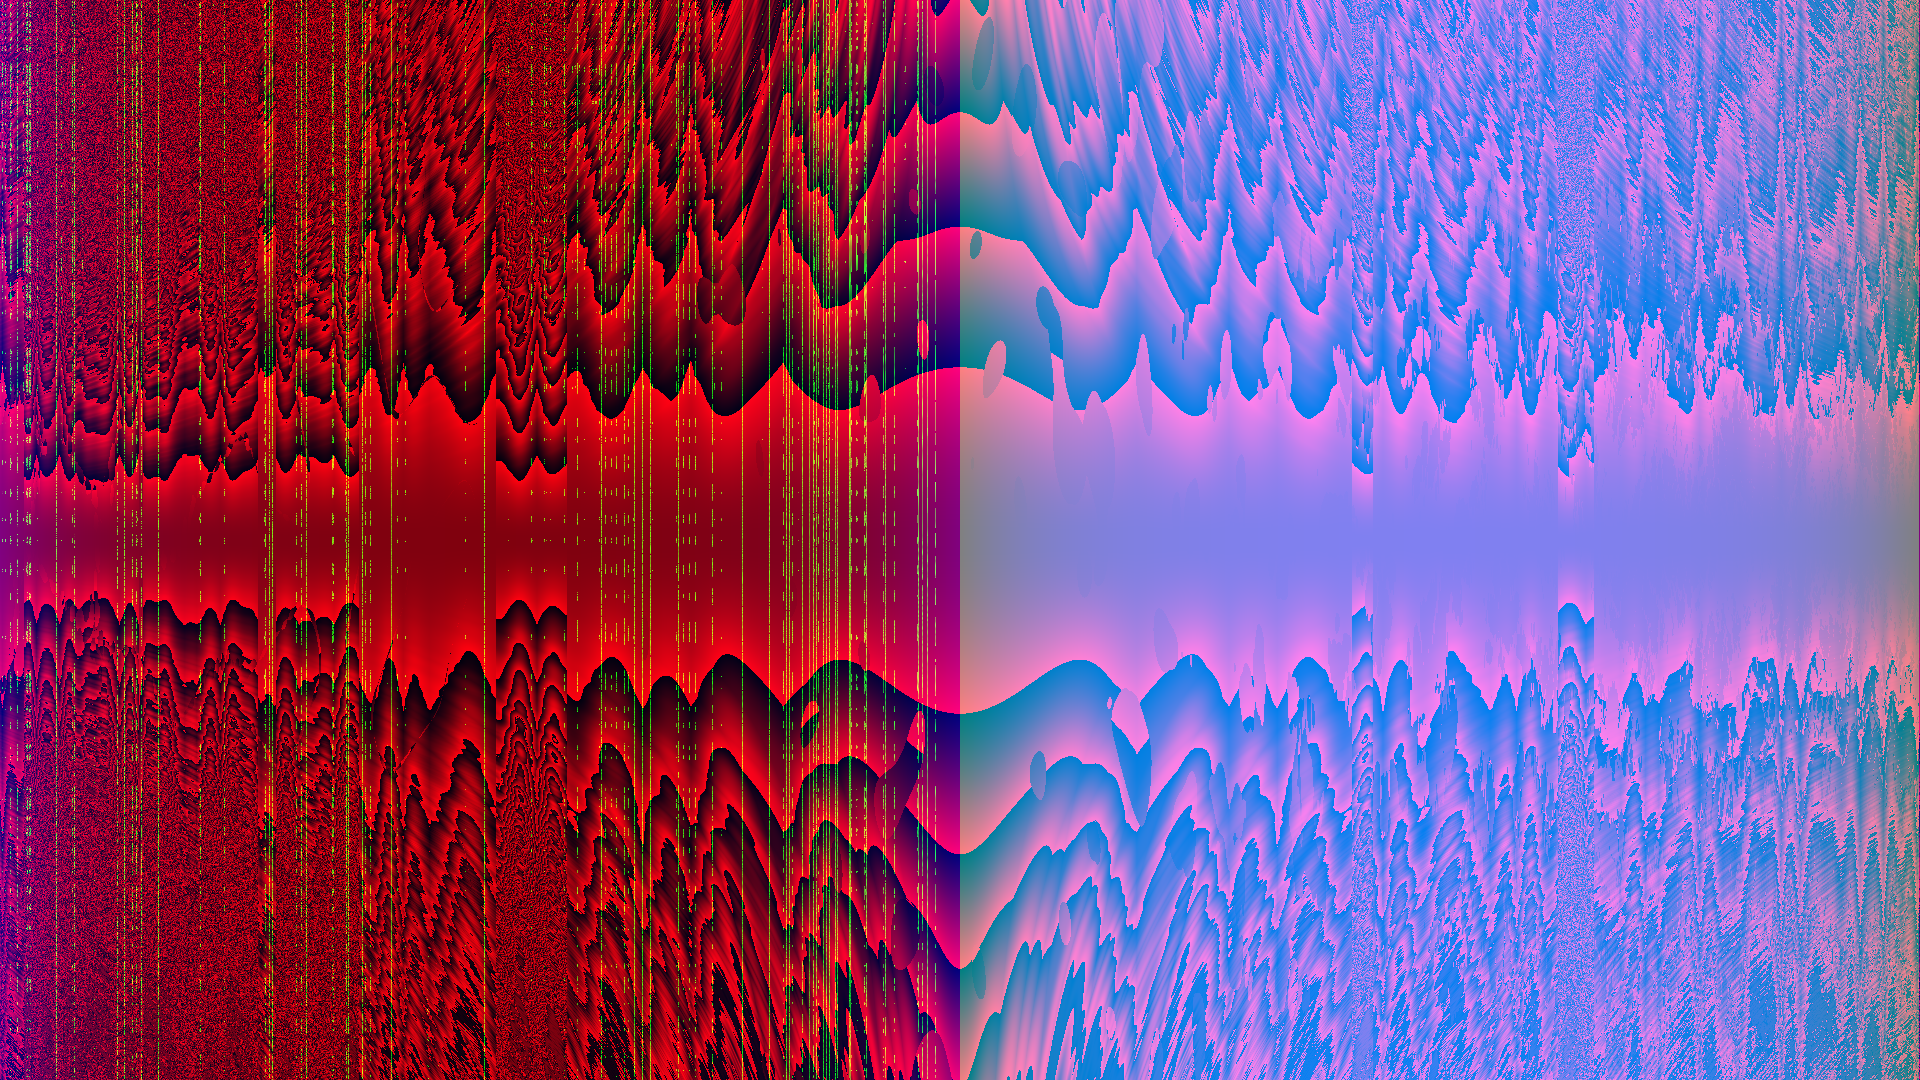
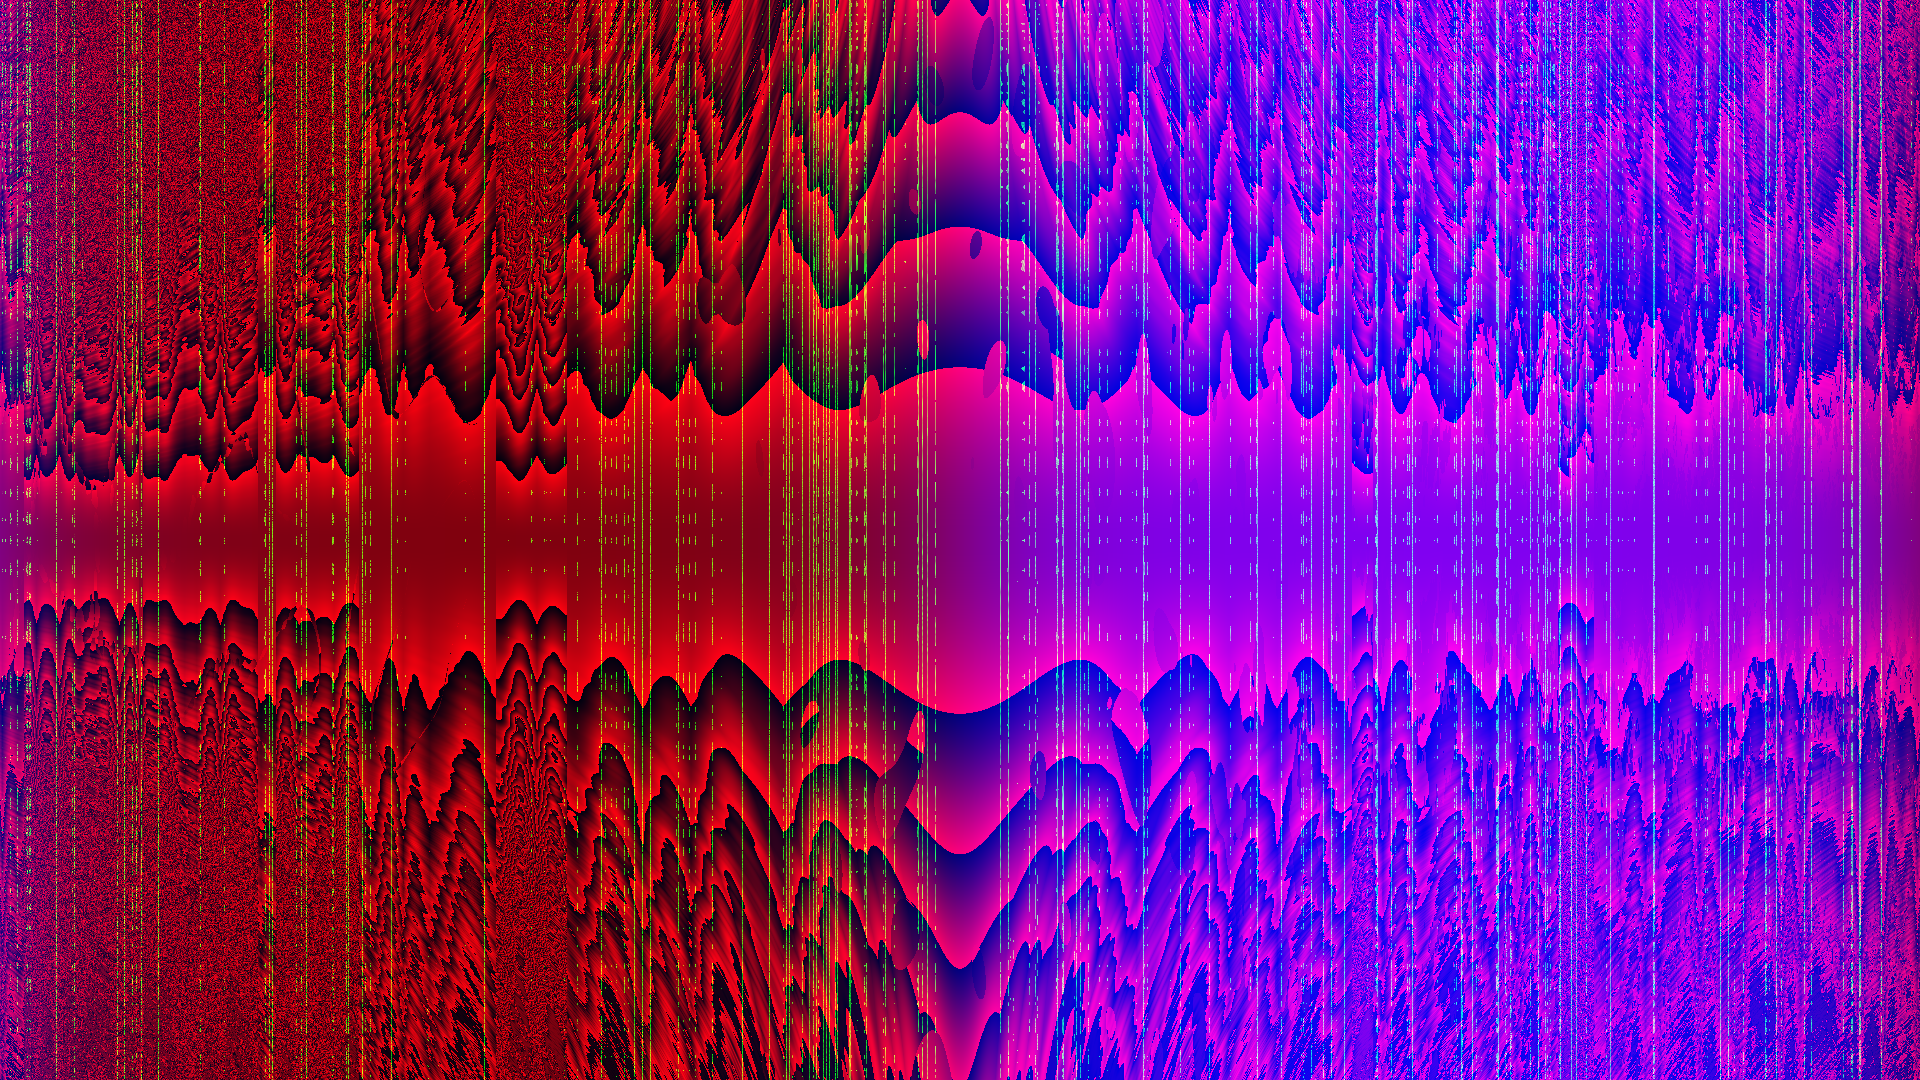
minor: deal with nan on modulo operations

diff --git a/src/vm/stackmachine.rs b/src/vm/stackmachine.rs
@@ -129,7 +129,7 @@ impl<S: Simd> StackMachine<S> {
                         for i in 0..S::VF32_WIDTH {
                             r[i] = a[i] % b[i];
                         }
-                        stack[sp - 1] = r;
+                        stack[sp - 1] = StackMachine::<S>::deal_with_nan(r);
                     }
                     Instruction::FBM => {
                         sp -= 5;
